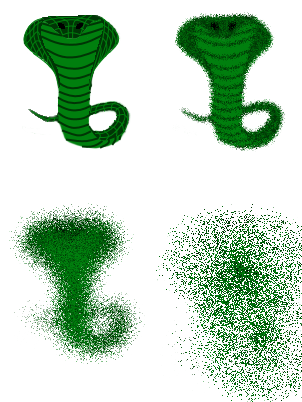
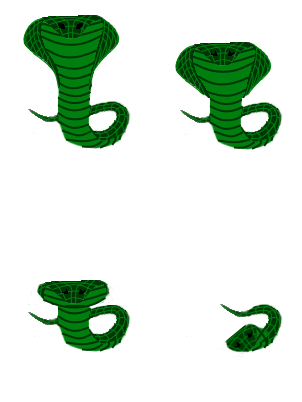
cleaned up game over snake animation a bit

Changed region(s): [[0.5364, 0.5373, 1.0, 1.0], [0.0298, 0.5075, 0.4768, 0.8955], [0.5662, 0.0299, 0.9536, 0.3881]]

diff --git a/SnakeEditor.cpp b/SnakeEditor.cpp
@@ -45,7 +45,7 @@ vector<sf::Sprite> gameOverSnakeAnimationSprites;
 float gameOverSnakeAnimationFrameCount;
 float gameOverSnakeAnimationFrameIndex;
 
-const float gameOverSnakeAnimationFrameSpeed = 0.01f;
+const float gameOverSnakeAnimationFrameSpeed = 0.005f;
 
 constexpr int xGridPositionsLength()
 {
@@ -237,26 +237,28 @@ void initGameOverSnakeAnimation()
     sf::Sprite animationFrame2;
     sf::Sprite animationFrame3;
     sf::Sprite animationFrame4;
+    float posX = 200;
+    float posY = 25;
 
     animationFrame1.setTexture(snakeSpriteSheetTexture);
     animationFrame1.setTextureRect(sf::IntRect(0, 0, 150, 200));
     animationFrame1.setColor(sf::Color(255, 255, 255, 200));
-    animationFrame1.setPosition(100, 25);
+    animationFrame1.setPosition(posX, posY);
 
     animationFrame2.setTexture(snakeSpriteSheetTexture);
     animationFrame2.setTextureRect(sf::IntRect(152, 0, 150, 200));
     animationFrame2.setColor(sf::Color(255, 255, 255, 200));
-    animationFrame2.setPosition(100, 25);
+    animationFrame2.setPosition(posX, posY);
 
     animationFrame3.setTexture(snakeSpriteSheetTexture);
     animationFrame3.setTextureRect(sf::IntRect(0, 202, 150, 200));
     animationFrame3.setColor(sf::Color(255, 255, 255, 200));
-    animationFrame3.setPosition(100, 25);
+    animationFrame3.setPosition(posX, posY);
 
     animationFrame4.setTexture(snakeSpriteSheetTexture);
     animationFrame4.setTextureRect(sf::IntRect(152, 202, 150, 200));
     animationFrame4.setColor(sf::Color(255, 255, 255, 200));
-    animationFrame4.setPosition(100, 25);
+    animationFrame4.setPosition(posX, posY);
 
     gameOverSnakeAnimationSprites.push_back(animationFrame1);
     gameOverSnakeAnimationSprites.push_back(animationFrame2);
